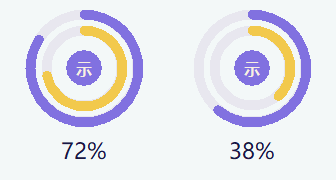
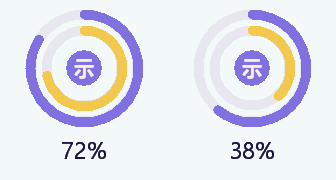
ui: improve translucent text clarity and refine traffic control glyphs

diff --git a/src/main.cpp b/src/main.cpp
@@ -4,6 +4,7 @@
 #include "ring_renderer.hpp"
 #include "usage_cache.hpp"
 #include "surface_renderer.hpp"
+#include "text_renderer.hpp"
 #include <windowsx.h>
 #include <commdlg.h>
 #include <commctrl.h>
@@ -24,7 +25,7 @@ constexpr int HEADER=34,FOOTER=42;
 constexpr int DETAIL_WIDTH=380,DETAIL_GAP=8,USAGE_HEIGHT=116,USAGE_SPACE=130;
 constexpr COLORREF BG=RGB(243,248,248),SURFACE=RGB(248,240,226),CARD=RGB(218,204,239),
     BUTTON=RGB(220,207,232),TRACK=RGB(232,231,239),INK=RGB(24,23,68),
-    MUTED=RGB(106,99,128),LINE=RGB(250,246,235),ACCENT=RGB(129,113,224),
+    MUTED=RGB(88,81,111),LINE=RGB(250,246,235),ACCENT=RGB(129,113,224),
     LOW=RGB(232,96,88),OK=RGB(69,182,77),OLD=RGB(151,145,171),WARM=RGB(242,201,76),
     TRAFFIC_RED=RGB(238,99,88),TRAFFIC_YELLOW=RGB(237,184,63),TRAFFIC_GREEN=RGB(57,181,74);
 enum Command { Expand=101,Refresh,Add,LinkLocal,ChooseExe,Cancel,Hide,Quit,Topmost,About,
@@ -68,14 +69,16 @@ std::map<std::pair<int,int>,HFONT> fonts;
 int px(int v){return static_cast<int>(std::lround(v*scale));}
 int logical(int v){return static_cast<int>(std::lround(v/scale));}
 HFONT font(int size,int weight=FW_NORMAL) {
+    size=std::max(10,size);
     auto key=std::make_pair(size,weight);auto it=fonts.find(key);if(it!=fonts.end())return it->second;
     auto f=CreateFontW(-px(size),0,0,0,weight,FALSE,FALSE,FALSE,DEFAULT_CHARSET,OUT_DEFAULT_PRECIS,
-        CLIP_DEFAULT_PRECIS,CLEARTYPE_QUALITY,DEFAULT_PITCH,L"Microsoft YaHei UI");
+        CLIP_DEFAULT_PRECIS,ANTIALIASED_QUALITY,DEFAULT_PITCH,L"Microsoft YaHei UI");
     fonts.emplace(key,f);return f;
 }
 void clearFonts(){for(auto& x:fonts)DeleteObject(x.second);fonts.clear();}
 void text(HDC dc,const std::wstring& s,int x,int y,int w,int h,COLORREF color=INK,int size=12,
           int weight=FW_NORMAL,UINT flags=DT_LEFT|DT_VCENTER|DT_SINGLELINE|DT_END_ELLIPSIS) {
+    if(paintSurfaceText(dc,s,px(x),px(y),px(w),px(h),font(size,weight),color,flags,BG,glassActive))return;
     auto old=SelectObject(dc,font(size,weight));SetTextColor(dc,color);SetBkMode(dc,TRANSPARENT);
     RECT r{px(x),px(y),px(x+w),px(y+h)};DrawTextW(dc,s.c_str(),static_cast<int>(s.size()),&r,flags|DT_NOPREFIX);
     SelectObject(dc,old);
@@ -128,7 +131,7 @@ void avatar(HDC dc,int cx,int cy,int radius,const std::wstring& label) {
     auto ob=SelectObject(dc,brush),op=SelectObject(dc,pen);
     Ellipse(dc,px(cx-radius),px(cy-radius),px(cx+radius),px(cy+radius));
     SelectObject(dc,ob);SelectObject(dc,op);DeleteObject(brush);DeleteObject(pen);
-    text(dc,label,cx-radius,cy-radius/2,radius*2,radius, SURFACE, radius<=10?8:10,FW_BOLD,DT_CENTER|DT_VCENTER|DT_SINGLELINE);
+    text(dc,label,cx-radius,cy-radius,radius*2,radius*2,SURFACE,10,FW_BOLD,DT_CENTER|DT_VCENTER|DT_SINGLELINE);
 }
 std::wstring duration(const Window& w) {
     if(w.weekly())return L"周额度";
@@ -401,7 +404,7 @@ void usageChart(HDC dc,const View& v,int top,int width) {
     std::wstring note=demo?L"演示数据 · 悬停竖条查看明细":!v.usage.message.empty()?wide(v.usage.message):
         v.usageUpdated?L"更新 "+date(v.usageUpdated)+L" · 按服务日期展示":
         !v.usageChecked?L"正在等待每日用量；可按 F5 刷新":L"服务未提供这七天的用量";
-    text(dc,note,left+8,top+103,area-16,11,MUTED,9);
+    text(dc,note,left+8,top+101,area-16,14,MUTED,10);
 }
 void detail(HDC dc,const View& v,int y,int w,int index) {
     int height=cardHeight(v);
@@ -790,11 +793,15 @@ public:
 };
 LRESULT CALLBACK buttonProc(HWND hwnd,UINT msg,WPARAM wp,LPARAM lp,UINT_PTR,DWORD_PTR) {
     const int id=GetDlgCtrlID(hwnd);
+    auto invalidate=[&]{
+        if(id>=WindowClose&&id<=WindowExpand)for(HWND control:{closeButton,collapseButton,expandButton})InvalidateRect(control,nullptr,FALSE);
+        else InvalidateRect(hwnd,nullptr,FALSE);
+    };
     if(msg==WM_MOUSEMOVE) {
-        if(hotButton!=id){hotButton=id;InvalidateRect(hwnd,nullptr,FALSE);}
+        if(hotButton!=id){hotButton=id;invalidate();}
         TRACKMOUSEEVENT tracking{sizeof(tracking),TME_LEAVE,hwnd,0};TrackMouseEvent(&tracking);
     } else if(msg==WM_MOUSELEAVE) {
-        if(hotButton==id)hotButton=0;InvalidateRect(hwnd,nullptr,FALSE);
+        if(hotButton==id)hotButton=0;invalidate();
     } else if(msg==WM_ERASEBKGND)return 1;
     return DefSubclassProc(hwnd,msg,wp,lp);
 }
@@ -833,21 +840,12 @@ LRESULT CALLBACK proc(HWND hwnd,UINT msg,WPARAM wp,LPARAM lp){
         int w=logical(d->rcItem.right-d->rcItem.left),h=logical(d->rcItem.bottom-d->rcItem.top);
         if(d->CtlID==WindowClose||d->CtlID==WindowCollapse||d->CtlID==WindowExpand) {
             COLORREF color=d->CtlID==WindowClose?TRAFFIC_RED:d->CtlID==WindowCollapse?TRAFFIC_YELLOW:TRAFFIC_GREEN;
-            paintSurfaceShape(d->hDC,px(1),px(1),px(16),px(16),0,color,CLR_INVALID,BG,glassActive,true);
-            if(d->itemState&ODS_SELECTED) {
-                auto shade=CreatePen(PS_SOLID,1,INK);
-                auto old=SelectObject(d->hDC,shade);SetBkMode(d->hDC,TRANSPARENT);
-                if(d->CtlID==WindowClose) {
-                    MoveToEx(d->hDC,px(6),px(6),nullptr);LineTo(d->hDC,px(12),px(12));
-                    MoveToEx(d->hDC,px(12),px(6),nullptr);LineTo(d->hDC,px(6),px(12));
-                } else if(d->CtlID==WindowCollapse) {
-                    MoveToEx(d->hDC,px(5),px(9),nullptr);LineTo(d->hDC,px(13),px(9));
-                } else {
-                    MoveToEx(d->hDC,px(5),px(9),nullptr);LineTo(d->hDC,px(13),px(9));
-                    MoveToEx(d->hDC,px(9),px(5),nullptr);LineTo(d->hDC,px(9),px(13));
-                }
-                SelectObject(d->hDC,old);DeleteObject(shade);
-            }
+            const int inset=px(1),diameter=px(w)-2*inset;
+            paintSurfaceShape(d->hDC,inset,inset,diameter,diameter,0,color,CLR_INVALID,BG,glassActive,true);
+            if((hotButton>=WindowClose&&hotButton<=WindowExpand)||(d->itemState&ODS_SELECTED)||
+                ((d->itemState&ODS_FOCUS)&&!(d->itemState&ODS_NOFOCUSRECT)))
+                paintTrafficGlyph(d->hDC,px(w),px(h),d->CtlID==WindowClose?TrafficGlyph::Close:
+                    d->CtlID==WindowCollapse?TrafficGlyph::Minimize:TrafficGlyph::Expand,scale,INK,BG,glassActive);
             return TRUE;
         }
         const auto fill=(d->itemState&ODS_SELECTED)?RGB(201,185,222):hotButton==static_cast<int>(d->CtlID)?RGB(212,197,230):BUTTON;

diff --git a/src/surface_renderer.hpp b/src/surface_renderer.hpp
@@ -12,8 +12,8 @@ inline uint32_t resolveSurfacePixel(uint32_t pixel,COLORREF background,bool glas
     const unsigned alpha=glass&&rgb==bg?110:255;
     return (alpha<<24)|((((rgb>>16)&255)*alpha/255)<<16)|((((rgb>>8)&255)*alpha/255)<<8)|((rgb&255)*alpha/255);
 }
-inline bool paintSurfaceShape(HDC dc,int x,int y,int width,int height,float diameter,COLORREF fill,
-                              COLORREF border,COLORREF background,bool glass,bool ellipse=false) {
+inline bool compositeSurfaceMask(HDC dc,int x,int y,int width,int height,const BYTE* sourceBits,int stride,
+                                 COLORREF background,bool glass,bool grayscale=false,COLORREF ink=0) {
     if(width<=0||height<=0)return true;
     DIBSECTION target{};
     if(GetObjectW(GetCurrentObject(dc,OBJ_BITMAP),sizeof(target),&target)!=sizeof(target)||
@@ -21,6 +21,32 @@ inline bool paintSurfaceShape(HDC dc,int x,int y,int width,int height,float diam
     // All application buffers are created top-down. GetObject normalizes biHeight
     // to a positive value, so its sign cannot be used to recover that orientation.
     GdiFlush();
+    POINT origin{};GetViewportOrgEx(dc,&origin);RECT clip{};GetClipBox(dc,&clip);
+    const int left=std::max<int>({0,clip.left+origin.x,x+origin.x}),top=std::max<int>({0,clip.top+origin.y,y+origin.y});
+    const int right=std::min<int>({target.dsBm.bmWidth,clip.right+origin.x,x+origin.x+width});
+    const int bottom=std::min<int>({target.dsBm.bmHeight,clip.bottom+origin.y,y+origin.y+height});
+    for(int row=top;row<bottom;++row) {
+        auto dest=reinterpret_cast<uint32_t*>(static_cast<BYTE*>(target.dsBm.bmBits)+row*target.dsBm.bmWidthBytes);
+        auto src=reinterpret_cast<const uint32_t*>(sourceBits+(row-y-origin.y)*stride);
+        for(int col=left;col<right;++col) {
+            uint32_t source=src[col-x-origin.x];
+            if(grayscale) {
+                const unsigned coverage=source&255u;
+                source=(coverage<<24)|((GetRValue(ink)*coverage/255)<<16)|((GetGValue(ink)*coverage/255)<<8)|(GetBValue(ink)*coverage/255);
+            }
+            const unsigned alpha=source>>24;if(!alpha)continue;
+            if(alpha==255){dest[col]=source;continue;}
+            const uint32_t prior=resolveSurfacePixel(dest[col],background,glass);const unsigned inverse=255-alpha;
+            uint32_t out=0;for(unsigned shift:{0u,8u,16u,24u})
+                out|=(((source>>shift)&255u)+(((prior>>shift)&255u)*inverse+127)/255)<<shift;
+            dest[col]=out;
+        }
+    }
+    return true;
+}
+inline bool paintSurfaceShape(HDC dc,int x,int y,int width,int height,float diameter,COLORREF fill,
+                              COLORREF border,COLORREF background,bool glass,bool ellipse=false) {
+    if(width<=0||height<=0)return true;
     Gdiplus::Bitmap mask(width,height,PixelFormat32bppPARGB);
     {
         Gdiplus::Graphics graphics(&mask);graphics.Clear(Gdiplus::Color(0,0,0,0));
@@ -39,22 +65,7 @@ inline bool paintSurfaceShape(HDC dc,int x,int y,int width,int height,float diam
     }
     Gdiplus::BitmapData data{};Gdiplus::Rect rect(0,0,width,height);
     if(mask.LockBits(&rect,Gdiplus::ImageLockModeRead,PixelFormat32bppPARGB,&data)!=Gdiplus::Ok)return false;
-    POINT origin{};GetViewportOrgEx(dc,&origin);RECT clip{};GetClipBox(dc,&clip);
-    const int left=std::max<int>({0,clip.left+origin.x,x+origin.x}),top=std::max<int>({0,clip.top+origin.y,y+origin.y});
-    const int right=std::min<int>({target.dsBm.bmWidth,clip.right+origin.x,x+origin.x+width});
-    const int bottom=std::min<int>({target.dsBm.bmHeight,clip.bottom+origin.y,y+origin.y+height});
-    for(int row=top;row<bottom;++row) {
-        auto dest=reinterpret_cast<uint32_t*>(static_cast<BYTE*>(target.dsBm.bmBits)+row*target.dsBm.bmWidthBytes);
-        auto src=reinterpret_cast<const uint32_t*>(static_cast<const BYTE*>(data.Scan0)+(row-y-origin.y)*data.Stride);
-        for(int col=left;col<right;++col) {
-            const uint32_t source=src[col-x-origin.x];const unsigned alpha=source>>24;if(!alpha)continue;
-            if(alpha==255){dest[col]=source;continue;}
-            const uint32_t prior=resolveSurfacePixel(dest[col],background,glass);const unsigned inverse=255-alpha;
-            uint32_t out=0;for(unsigned shift:{0u,8u,16u,24u})
-                out|=(((source>>shift)&255u)+(((prior>>shift)&255u)*inverse+127)/255)<<shift;
-            dest[col]=out;
-        }
-    }
-    mask.UnlockBits(&data);return true;
+    bool result=compositeSurfaceMask(dc,x,y,width,height,static_cast<const BYTE*>(data.Scan0),data.Stride,background,glass);
+    mask.UnlockBits(&data);return result;
 }
 }

diff --git a/src/text_renderer.hpp b/src/text_renderer.hpp
@@ -1,0 +1,50 @@
+#pragma once
+#include "surface_renderer.hpp"
+#include <string>
+namespace meter {
+inline bool paintSurfaceText(HDC dc,const std::wstring& text,int x,int y,int width,int height,
+                             HFONT font,COLORREF ink,UINT flags,COLORREF background,bool glass) {
+    if(width<=0||height<=0||text.empty())return true;
+    BITMAPINFO info{};info.bmiHeader.biSize=sizeof(BITMAPINFOHEADER);
+    info.bmiHeader.biWidth=width;info.bmiHeader.biHeight=-height;
+    info.bmiHeader.biPlanes=1;info.bmiHeader.biBitCount=32;
+    HDC mask=CreateCompatibleDC(dc);if(!mask)return false;
+    void* bits=nullptr;HBITMAP bitmap=CreateDIBSection(mask,&info,DIB_RGB_COLORS,&bits,nullptr,0);
+    if(!bitmap){DeleteDC(mask);return false;}
+    auto previous=SelectObject(mask,bitmap);auto previousFont=SelectObject(mask,font);
+    std::fill_n(static_cast<uint32_t*>(bits),static_cast<size_t>(width)*height,0u);
+    SetBkMode(mask,TRANSPARENT);SetTextColor(mask,RGB(255,255,255));
+    RECT rect{0,0,width,height};DrawTextW(mask,text.c_str(),static_cast<int>(text.size()),&rect,flags|DT_NOPREFIX);
+    GdiFlush();
+    const bool result=compositeSurfaceMask(dc,x,y,width,height,static_cast<const BYTE*>(bits),width*4,background,glass,true,ink);
+    SelectObject(mask,previousFont);SelectObject(mask,previous);DeleteObject(bitmap);DeleteDC(mask);
+    return result;
+}
+enum class TrafficGlyph { Close,Minimize,Expand };
+inline bool paintTrafficGlyph(HDC dc,int width,int height,TrafficGlyph kind,double scale,COLORREF ink,COLORREF background,bool glass) {
+    if(width<=0||height<=0)return true;
+    Gdiplus::Bitmap mask(width,height,PixelFormat32bppPARGB);
+    {
+        Gdiplus::Graphics graphics(&mask);graphics.Clear(Gdiplus::Color(0,0,0,0));
+        graphics.SetSmoothingMode(Gdiplus::SmoothingModeAntiAlias);
+        const float cx=width*.5f,cy=height*.5f,s=static_cast<float>(scale);
+        Gdiplus::Pen pen(Gdiplus::Color(230,GetRValue(ink),GetGValue(ink),GetBValue(ink)),1.25f*s);
+        pen.SetStartCap(Gdiplus::LineCapRound);pen.SetEndCap(Gdiplus::LineCapRound);pen.SetLineJoin(Gdiplus::LineJoinRound);
+        Gdiplus::GraphicsPath glyph;
+        auto line=[&](float x1,float y1,float x2,float y2){glyph.StartFigure();glyph.AddLine(cx+x1*s,cy+y1*s,cx+x2*s,cy+y2*s);};
+        if(kind==TrafficGlyph::Close){line(-2.7f,-2.7f,2.7f,2.7f);line(2.7f,-2.7f,-2.7f,2.7f);}
+        else if(kind==TrafficGlyph::Minimize)line(-3.2f,0,3.2f,0);
+        else {
+            line(-3,3,3,-3);
+            Gdiplus::PointF upper[]={{cx+.5f*s,cy-3*s},{cx+3*s,cy-3*s},{cx+3*s,cy-.5f*s}};
+            Gdiplus::PointF lower[]={{cx-.5f*s,cy+3*s},{cx-3*s,cy+3*s},{cx-3*s,cy+.5f*s}};
+            glyph.StartFigure();glyph.AddLines(upper,3);glyph.StartFigure();glyph.AddLines(lower,3);
+        }
+        graphics.DrawPath(&pen,&glyph);
+    }
+    Gdiplus::BitmapData data{};Gdiplus::Rect rect(0,0,width,height);
+    if(mask.LockBits(&rect,Gdiplus::ImageLockModeRead,PixelFormat32bppPARGB,&data)!=Gdiplus::Ok)return false;
+    const bool result=compositeSurfaceMask(dc,0,0,width,height,static_cast<const BYTE*>(data.Scan0),data.Stride,background,glass);
+    mask.UnlockBits(&data);return result;
+}
+}

diff --git a/tests/render_tests.cpp b/tests/render_tests.cpp
@@ -1,6 +1,7 @@
 #include "../src/platform.hpp"
 #include "../src/ring_renderer.hpp"
 #include "../src/surface_renderer.hpp"
+#include "../src/text_renderer.hpp"
 #include <iostream>
 #define CHECK(c) do { ++checks; if (!(c)) throw std::runtime_error("Failed: " #c); } while(0)
 int main() {
@@ -50,6 +51,33 @@ int main() {
         CHECK(meter::paintSurfaceShape(dc,8,8,60,28,12,red,CLR_INVALID,tint,true));RestoreDC(dc,saved);
         CHECK(static_cast<uint32_t*>(bits)[25*128+19]==tintRgb);
         CHECK((static_cast<uint32_t*>(bits)[25*128+25]>>24)==255);
+        for(double scale:{1.0,1.25,1.5,2.0}) {
+            std::fill_n(static_cast<uint32_t*>(bits),128*128,tintRgb);
+            HFONT label=CreateFontW(-static_cast<int>(12*scale),0,0,0,FW_NORMAL,FALSE,FALSE,FALSE,DEFAULT_CHARSET,
+                OUT_DEFAULT_PRECIS,CLIP_DEFAULT_PRECIS,ANTIALIASED_QUALITY,DEFAULT_PITCH,L"Microsoft YaHei UI");
+            CHECK(meter::paintSurfaceText(dc,L"Codex 字",4,4,120,40,label,RGB(24,23,68),DT_SINGLELINE,tint,true));
+            DeleteObject(label);
+            bool inkFound=false,partialFound=false,valid=true;
+            for(int i=0;i<128*128;++i) {
+                auto pixel=meter::resolveSurfacePixel(static_cast<uint32_t*>(bits)[i],tint,true);unsigned a=pixel>>24;
+                inkFound|=a==255;partialFound|=a>110&&a<255;
+                valid&=(pixel&255)<=a&&((pixel>>8)&255)<=a&&((pixel>>16)&255)<=a;
+            }
+            CHECK(inkFound);CHECK(partialFound);CHECK(valid);
+            for(auto kind:{meter::TrafficGlyph::Close,meter::TrafficGlyph::Minimize,meter::TrafficGlyph::Expand}) {
+                std::fill_n(static_cast<uint32_t*>(bits),128*128,0xFFEE6358u);
+                const int size=static_cast<int>(18*scale);
+                CHECK(meter::paintTrafficGlyph(dc,size,size,kind,scale,RGB(24,23,68),tint,true));
+                long double weightedX=0,weightedY=0,total=0;bool opaque=true;
+                for(int y=0;y<size;++y)for(int x=0;x<size;++x) {
+                    auto pixel=static_cast<uint32_t*>(bits)[y*128+x];opaque&=(pixel>>24)==255;
+                    const int darkness=238-static_cast<int>((pixel>>16)&255);
+                    if(darkness>0){total+=darkness;weightedX+=(x+.5L)*darkness;weightedY+=(y+.5L)*darkness;}
+                }
+                CHECK(total>0&&opaque);
+                CHECK(std::abs(weightedX/total-size*.5L)<.75L&&std::abs(weightedY/total-size*.5L)<.75L);
+            }
+        }
         std::cout<<checks<<" GDI and glass surface rendering checks passed\n";
     } catch(const std::exception& e){std::cerr<<e.what()<<"\n";SelectObject(dc,old);DeleteObject(bitmap);DeleteDC(dc);Gdiplus::GdiplusShutdown(graphicsToken);return 1;}
     SelectObject(dc,old);DeleteObject(bitmap);DeleteDC(dc);Gdiplus::GdiplusShutdown(graphicsToken);return 0;

diff --git a/scripts/render-demo.cpp b/scripts/render-demo.cpp
@@ -57,11 +57,16 @@ int wmain(int argc,wchar_t** argv) {
         refreshButton=child(L"刷新");addButton=child(L"添加账号");
         fs::path output=fs::absolute(argv[1]);fs::create_directories(output);
         exportDemo(output/L"compact.png",false,0);
+        hotButton=WindowClose;
+        exportDemo(output/L"compact-controls.png",false,0);
+        hotButton=0;
         exportDemo(output/L"details.png",true,0);
         exportDemo(output/L"edge-dock.png",false,3);
         exportDemo(output/L"edge-dock-vertical.png",false,2);
         views.resize(1);
         exportDemo(output/L"account-preview.png",true,0);
+        clearFonts();scale=1;hotButton=WindowClose;
+        exportDemo(output/L"native-detail-preview.png",true,0);
         DestroyWindow(window);clearFonts();Gdiplus::GdiplusShutdown(graphicsToken);CoUninitialize();
         return 0;
     }catch(const std::exception& e){std::cerr<<e.what()<<"\n";return 1;}

diff --git a/src/version.h b/src/version.h
@@ -1,4 +1,4 @@
 #pragma once
-#define METER_VERSION "0.3.5"
-#define METER_VERSION_W L"0.3.5"
-#define METER_FILE_VERSION 0,3,5,0
+#define METER_VERSION "0.3.6"
+#define METER_VERSION_W L"0.3.6"
+#define METER_FILE_VERSION 0,3,6,0

diff --git a/TESTING.md b/TESTING.md
@@ -1,4 +1,4 @@
-# 0.3.5 测试步骤
+# 0.3.6 测试步骤
 
 ## 推荐首次测试顺序
 
@@ -23,7 +23,7 @@
 
 scripts/build.ps1 执行：
 - model_tests（80 项）：额度及每日用量解析、未知／零值、非法／重复日期与数值、昵称与邮箱隔离、圆环角度、删除命中及裁剪、四边触碰、负坐标显示器和收纳长度／滚动范围、四边拖动位置限制。
-- render_tests（56 项）：使用应用同一绘图函数检查圆环 0/25/50/75/100% 的象限及中心像素，额外覆盖四种缩放下的抗锯齿边缘透明度、预乘颜色、无不透明白边、实色回退和内容裁剪。
+- render_tests（108 项）：使用应用同一绘图函数检查圆环象限及中心像素，覆盖四种缩放下的抗锯齿边缘透明度、预乘颜色、无不透明白边、实色回退、内容裁剪、灰度字形合成与三个红绿灯符号的光学中心。
 - rpc_tests + mock_codex（64 项）：Windows 管道、分段响应、通知插入、账号隔离、取消、超时、配置迁移及进程清理；覆盖每日用量接口、旧接口回退、缓存保留上限、身份绑定、账号隔离及损坏文件，以及登录通知早于响应、登录后新会话读取、登录不阻塞刷新、登录失败、空闲取消不影响下次任务、关闭时取消等待。登录测试使用假浏览器回调，不打开真实授权网页。
 
 build/rpc_tests.exe --real 额外读取本机现有 Codex 登录，只输出额度窗口数、重置卡字段是否存在、每日用量是否提供及日期数量，不输出凭据、账号名称或具体用量。此测试需要正常网络和允许 Codex 写入其自身状态目录，不发起模型推理。

diff --git a/docs/images/README.md b/docs/images/README.md
@@ -1,12 +1,14 @@
 # 演示图片
 
-这些图片使用当前版本 Codex Meter 的原生界面绘制函数离线导出，缩放为 200%，直接保存为无损 PNG，没有经过桌面截图的 JPEG 压缩。使用虚构账号、额度与 Token 用量，不读取真实登录信息。导出采用应用支持的实色背景，不包含系统合成的磨砂材质、外窗圆角及阴影。
+这些图片使用当前版本 Codex Meter 的原生界面绘制函数离线导出，通常为 200% 缩放（native-detail-preview.png 为 100%），直接保存为无损 PNG，没有经过桌面截图的 JPEG 压缩。使用虚构账号、额度与 Token 用量，不读取真实登录信息。导出采用应用支持的实色背景，不包含系统合成的磨砂材质、外窗圆角及阴影。
 
 | 图片 | 展示内容 |
 | --- | --- |
 | compact.png | 640×284，紧凑模式，多账号短周期及周额度 |
+| compact-controls.png | 640×284，悬停红绿灯时的矢量符号 |
 | details.png | 760×1560，多账号完整详情与七天用量图 |
 | account-preview.png | 760×884，单账号详情、重置卡和七天用量图 |
+| native-detail-preview.png | 380×442，100% 原生分辨率文字及红绿灯预览 |
 | edge-dock.png | 336×180，贴顶横向收纳，默认文字头像和双额度圆环 |
 | edge-dock-vertical.png | 168×336，左右贴边的纵向收纳 |
 

diff --git a/docs/architecture.md b/docs/architecture.md
@@ -10,6 +10,7 @@ C++17 / Win32 / GDI. No embedded browser or interpreter.
 - src/main.cpp: compact/detail renderer, native buttons, tray, profile actions, DPI/position persistence and refresh scheduling.
 - src/usage.hpp and usage_cache.hpp: validated daily token buckets, bounded per-profile atomic cache with account identity binding; no chat log ingestion.
 - src/surface_renderer.hpp: antialiased shape masks composited into the shared top-down premultiplied DIB surfaces, preserving fractional alpha at glass edges and respecting the content clip.
+- src/text_renderer.hpp: grayscale GDI glyph masks and antialiased traffic-control paths composited through the same alpha pipeline. Small text uses at least 10 logical pixels; no ClearType subpixel colors are copied onto translucent surfaces.
 - third_party/nlohmann: pinned MIT JSON library, no network build dependency.
 - tests: model tests, fake app-server, Windows IPC/storage tests.
 

diff --git a/RELEASE_NOTES.md b/RELEASE_NOTES.md
@@ -1,8 +1,14 @@
-# Codex Meter v0.3.5
+# Codex Meter v0.3.6
 
 Windows x64 便携版。解压后双击 `codex_meter.exe`，无需安装。
 
 ## 本次更新
+
+- 文字使用灰度抗锯齿字形遮罩合成，避免透明背景上的彩边；提高最小字号和辅助文字对比度，修复裁切。
+- 红绿灯内部改为精细居中的圆头矢量符号，悬停显示关闭、收起和伸缩箭头。
+- 检查 100%/125%/150%/200% 缩放下的文字透明度和符号中心位置。
+
+## 最近的功能更新
 
 - 重置卡不足 72 小时到期时，日期显示红色提醒；已过期标为红色“已到期”。
 - 未提供到期时间时保持普通提示，演示图新增两天后到期的卡片示例。

diff --git a/CHANGELOG.md b/CHANGELOG.md
@@ -1,3 +1,10 @@
+# 0.3.6 · 2026-11-02
+
+- 文字改为灰度字形遮罩与透明背景正确合成，避免 ClearType 彩边及 alpha 损坏；最小字号为 10，辅助文字加深。
+- 调整头像及小字绘制高度，避免笔画被裁切。
+- 红绿灯符号改为居中的圆头矢量叉号、减号和双向伸缩箭头；悬停显示，修正不同 DPI 下独立取整导致的偏心。
+- 新增四种缩放下的文字透明度及图标中心检查，更新高清演示图。
+
 # 0.3.5 · 2026-11-02
 
 - 重置卡不足 72 小时到期时，日期以红色提醒；已过期标为红色“已到期”，未知时间保持普通提示。
